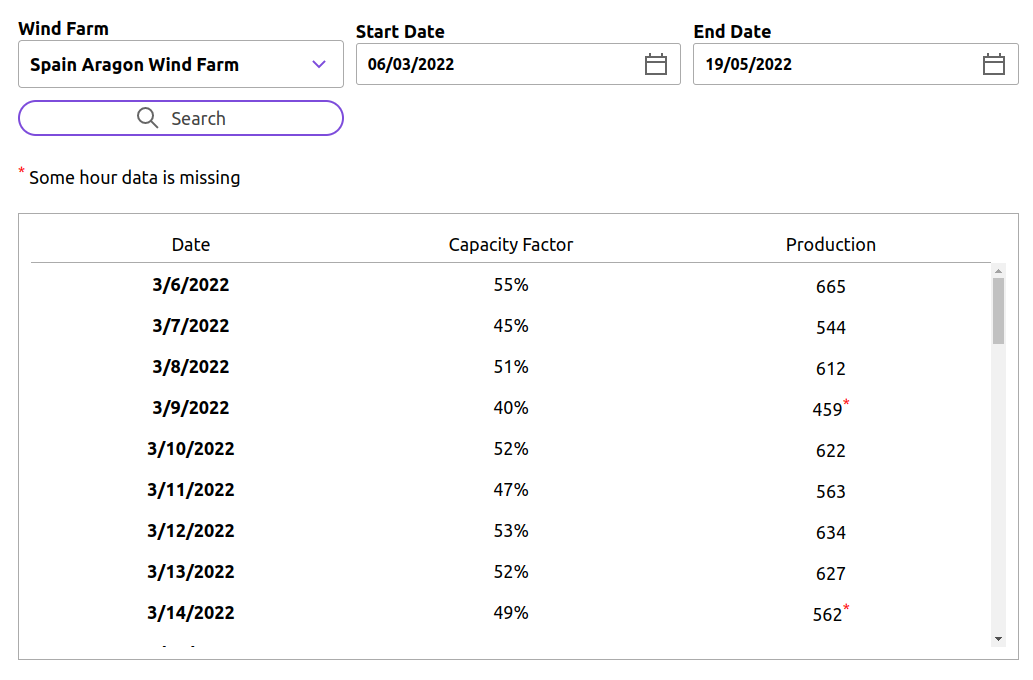
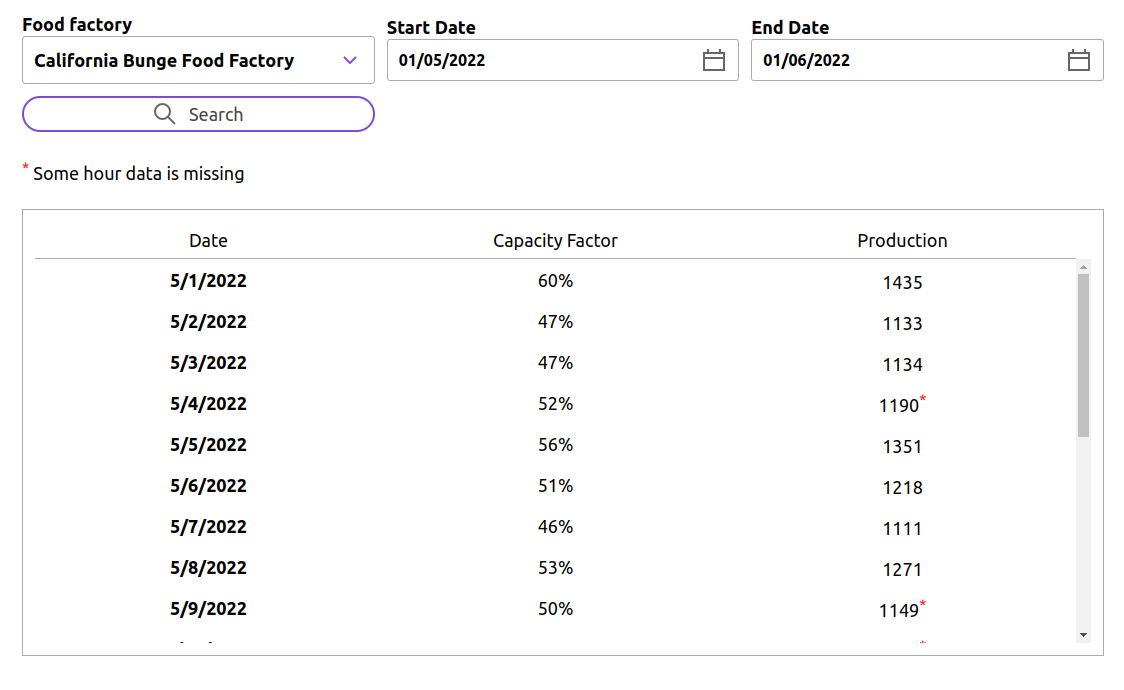
updated screen field label

diff --git a/factory-production-front-end/src/features/factory/SearchBar.js b/factory-production-front-end/src/features/factory/SearchBar.js
@@ -69,7 +69,7 @@ export function SearchBar() {
                 <Box>
                     <Box justify="center">
                         <Text size="medium" weight="bold">
-                        Wind factory
+                        Food factory
                         </Text>
                     </Box>
                     <Select                    
